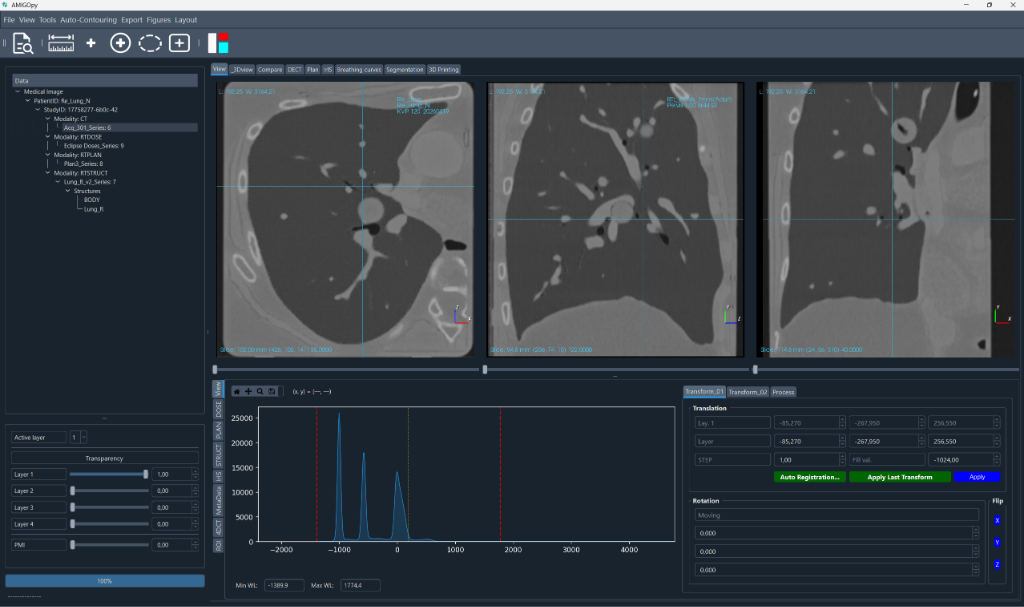
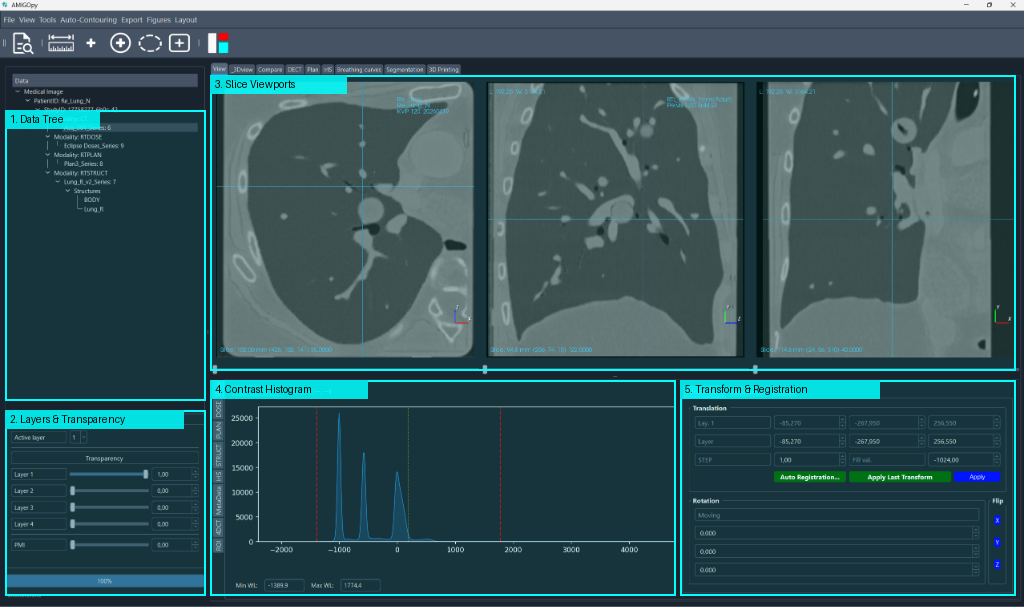
doc

Changed region(s): [[0.0, 0.1186, 1.0, 1.0]]

diff --git a/docs/documentation/index.md b/docs/documentation/index.md
@@ -4,7 +4,7 @@ Welcome to the AMIGOpy User Guide. This section will walk you through the core w
 
 ---
 
-## 📥 Loading Data
+## Loading Data
 
 AMIGOpy provides several flexible methods to load your medical images, 3D structures, dose distributions, and CAD/3D printing models.
 
@@ -30,37 +30,47 @@ AMIGOpy supports various keyboard shortcuts to open standard formats:
 
 ---
 
-## 🖥 Navigating the Interface
+## Navigating the Interface
 
 Once your data is loaded, the interface displays the volumetric views and analysis panels:
 
 ![Main Interface](../images/main_interface.png)
-*Figure 2: The AMIGOpy main interface layout.*
+*Figure 2: The AMIGOpy main interface layout, with numbered annotations matching the panels below.*
 
-### 🌳 Data Tree (Left Panel)
-All loaded items are organized in the hierarchical **Data Tree** menu on the left side:
+### 1. Data Tree (Left Panel)
+All loaded items are organized in the hierarchical Data Tree menu on the left side (marked as **1** on the interface diagram):
 * Grouped by format (e.g., `Medical Image` ➔ `DICOM`).
 * Organized by **PatientID**, **StudyID**, **Modality** (e.g., `CT`, `RTDOSE`, `RTSTRUCT`, `RTPLAN`), and **Series**.
 * Under `RTSTRUCT`, you can expand and view individual contoured structures (e.g., `BODY`, `Lung_R`).
 
-### 🎞 Slice Views (Top Panels)
-The main display features three orthogonal slice rendering viewports (from left to right):
-* **Axial view** (Transverse)
-* **Sagittal view**
-* **Coronal view**
+### 2. Layers & Transparency Panel (Bottom-Left)
+Located directly below the Data Tree (marked as **2** on the interface diagram):
+* Controls active visualization layers (supporting up to 4 concurrent image layers).
+* Individual transparency sliders to blend slices and structures seamlessly.
+
+### 3. Slice Viewports (Top Panels)
+The main display features three orthogonal slice rendering viewports (marked as **3** on the interface diagram):
+* **Axial view** (Transverse) — left pane.
+* **Sagittal view** — middle pane.
+* **Coronal view** — right pane.
 Each view contains position lines indicating cross-sectional alignment and slider controls below the viewports to page through slices.
 
-### 📊 Contrast Histogram (Bottom-Center Panel)
-The histogram panel at the bottom center plots the distribution of Hounsfield Units (HU) or voxel intensities in the loaded scan:
+### 4. Contrast Histogram (Bottom-Center Panel)
+The histogram panel at the bottom center plots the distribution of Hounsfield Units (HU) or voxel intensities in the loaded scan (marked as **4** on the interface diagram):
 * The graph helps visualize the image contrast.
 * The red vertical dotted lines indicate the current window boundaries.
 * You can adjust the **Min WL** and **Max WL** values using the text inputs below the plot to adjust contrast windowing manually.
 
+### 5. Transform & Registration Panel (Bottom-Right)
+Located at the bottom right corner (marked as **5** on the interface diagram):
+* Translation and rotation inputs to manual align scans.
+* **Auto Registration** trigger buttons (for intensity-based mutual alignment of multiple datasets).
+
 ---
 
-## 🖱 Mouse Controls in Slice Views
+## Mouse Controls in Slice Views
 
 Interact with the viewports using your mouse:
-* 🖱 **Window & Level**: **Left-click and hold** inside any slice view, then drag the mouse to dynamically adjust the contrast Window (width) and Level (center).
-* 🔍 **Zooming**: **Right-click and hold**, then drag up/down to zoom in or out on the slice.
-* ✋ **Panning (Dragging)**: **Click and hold the mouse wheel (middle click)**, then drag the mouse to pan the image around the viewport.
+* **Window & Level**: Left-click and hold inside any slice view, then drag the mouse to dynamically adjust the contrast Window (width) and Level (center).
+* **Zooming**: Right-click and hold, then drag up/down to zoom in or out on the slice.
+* **Panning (Dragging)**: Click and hold the mouse wheel (middle click), then drag the mouse to pan the image around the viewport.
